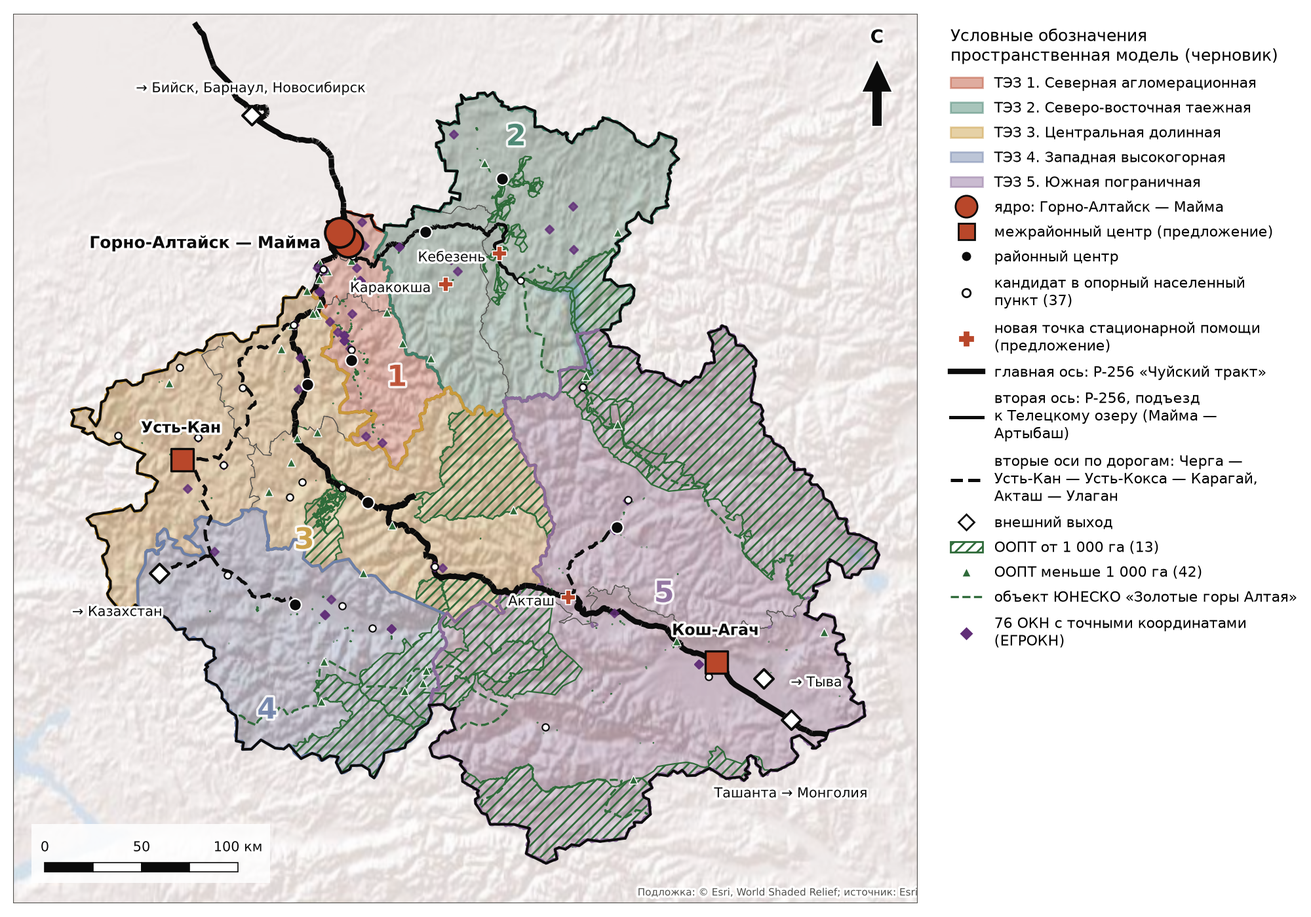
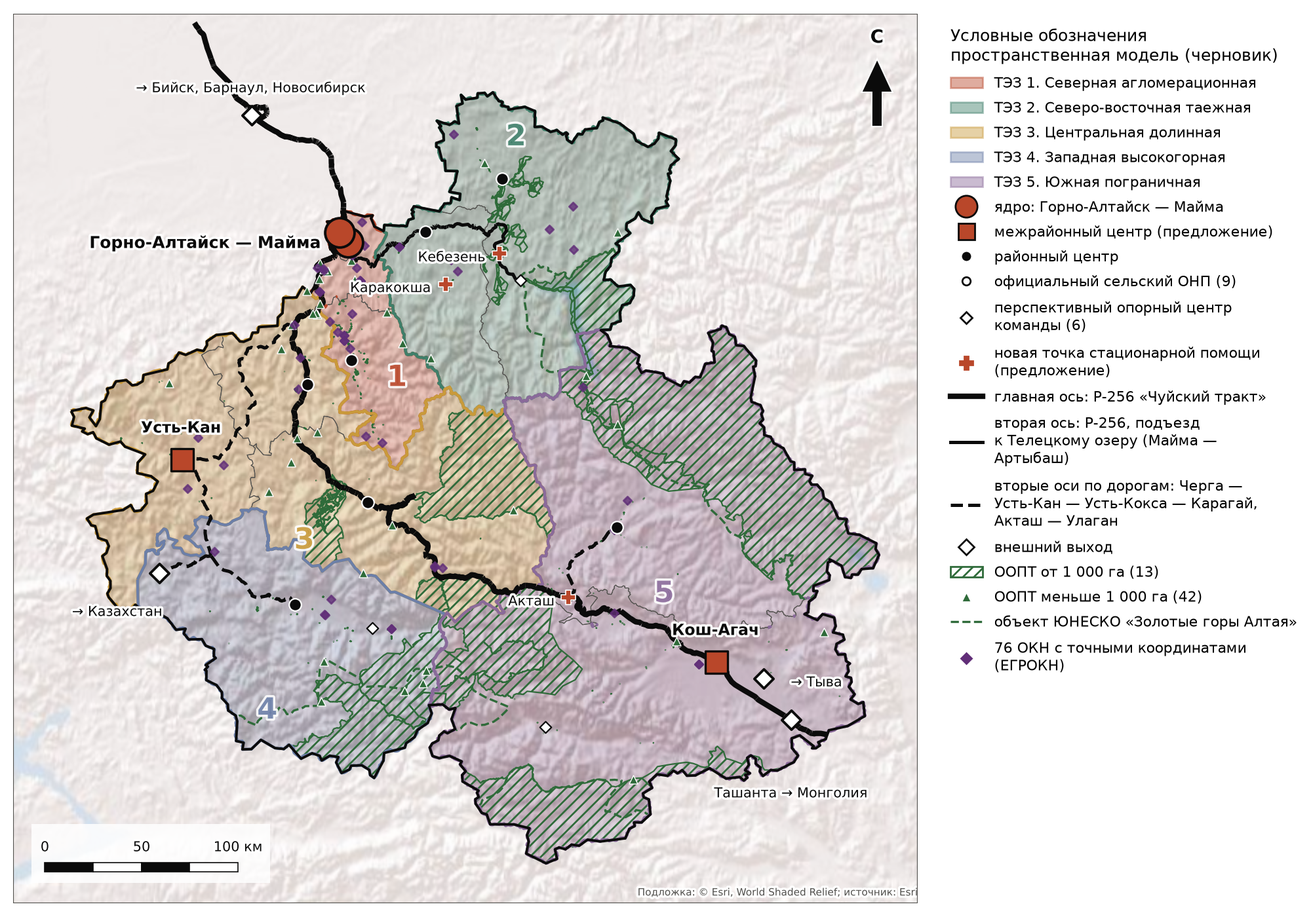
Обновить проектную сеть ОНП до 9 + 6 пунктов

Changed region(s): [[0.713, 0.3071, 0.992, 0.7371], [0.217, 0.5221, 0.248, 0.5529]]

diff --git a/scripts/slides/make_course_feedback_maps.py b/scripts/slides/make_course_feedback_maps.py
@@ -130,23 +130,22 @@ def main():
     assert (official._merge == 'both').all(), 'Не все ОНП сопоставлены по ОКТМО'
     official = gpd.GeoDataFrame(official, geometry='geometry', crs=CRS)
     additions = onp[~onp.oktmo.astype(str).isin(official.oktmo)]
-    capital = additions[additions.oktmo.eq(84701000001)]
-    rural = additions.drop(capital.index)
+    assert (len(official), len(additions)) == (9, 6)
     official.plot(ax=ax, color=ECONOMY, markersize=32, edgecolor='white', lw=.5, zorder=7)
-    onp_key = [symbol('o', ECONOMY, 'Сельский ОНП по постановлению № 222'),
-               symbol('o', FEDERAL, 'Дополнительный сельский пункт команды', 'white'),
-               symbol('s', REGIONAL, 'Горно-Алтайск, городское ядро')]
+    onp_key = [symbol('o', ECONOMY, 'Официальный сельский ОНП по постановлению № 222 (9)'),
+               symbol('o', FEDERAL, 'Перспективный опорный центр команды (6)', 'white')]
     export_comparison(official, onp, additions)
-    rural.plot(ax=ax, facecolor='none', edgecolor=FEDERAL, markersize=46, lw=1.1, zorder=6)
-    capital.plot(ax=ax, color=REGIONAL, marker='s', markersize=32, edgecolor='white', lw=.6, zorder=8)
+    additions.plot(ax=ax, facecolor='none', edgecolor=FEDERAL, markersize=46, lw=1.1, zorder=6)
     for name, offset in {
-        'Горно-Алтайск': (8, -7), 'Майма': (-6, 8), 'Манжерок': (-6, -3),
-        'Элекмонар': (5, 6), 'Беляши': (-6, 5), 'Балыкча': (5, 5),
+        'Акташ': (-10, 10), 'Кебезень': (18, 18), 'Каракокша': (18, -18),
+        'Иогач': (-18, -18), 'Беляши': (-10, 8), 'Катанда': (10, -10),
     }.items():
         p = onp.loc[onp['name'].str.endswith(name), 'geometry'].iloc[0]
         ax.annotate(name, (p.x, p.y), xytext=offset, textcoords='offset points',
                     fontsize=7.3, ha='right' if offset[0] < 0 else 'left',
-                    path_effects=HALO, zorder=10)
+                    path_effects=HALO, zorder=10,
+                    arrowprops={'arrowstyle': '-', 'color': FEDERAL, 'lw': .65,
+                                'shrinkA': 2, 'shrinkB': 3})
     save(fig, ax, interior, onp_key + [symbol('o', '#8e948f', 'Другие населенные пункты')]
          + road_keys, 'onp_course')
 
@@ -188,9 +187,7 @@ def export_comparison(official, onp, additions):
             status=both.map({True: 'оба перечня', False: 'только постановление № 222'})
         ),
         additions.rename(columns={'name': 'settlement'})[['oktmo', 'settlement', 'mo', 'основание']]
-        .assign(status=additions.oktmo.eq(84701000001).map(
-            {True: 'городское ядро команды', False: 'дополнительный сельский пункт команды'}
-        )),
+        .assign(status='перспективный опорный центр команды'),
     ], ignore_index=True)
     result['pdf_page'] = result.pdf_page.astype('Int64')
     result.to_csv(OUT / 'onp_comparison.csv', index=False)

diff --git a/scripts/model/make_model_map.py b/scripts/model/make_model_map.py
@@ -94,7 +94,11 @@ tel.plot(ax=ax, color=INK, lw=1.8, zorder=4)
 axes = gpd.read_file(ROOT / "data" / "model" / "layers" / "axes_secondary.geojson").to_crs(CRS)
 axes.plot(ax=ax, color=INK, lw=1.8, ls="--", zorder=4)
 # узлы
-ax.scatter(onp.geometry.x, onp.geometry.y, s=14, color=SURFACE, edgecolor=INK, lw=0.8, zorder=5)
+official = csv("data/slides/onp_decree_222.csv").oktmo.astype(str)
+is_official = onp.oktmo.astype(str).isin(official)
+assert (is_official.sum(), (~is_official).sum()) == (9, 6)
+ax.scatter(onp[is_official].geometry.x, onp[is_official].geometry.y, s=14, color=SURFACE, edgecolor=INK, lw=0.8, zorder=5)
+ax.scatter(onp[~is_official].geometry.x, onp[~is_official].geometry.y, s=20, marker="D", color=SURFACE, edgecolor=INK, lw=0.8, zorder=5)
 c = gpd.GeoSeries([pt(n) for n in centers if n not in INTER], crs=CRS)
 ax.scatter(c.x, c.y, s=45, color=INK, edgecolor=SURFACE, lw=0.8, zorder=6)
 for n in INTER:
@@ -132,7 +136,8 @@ finish(fig, ax, extent=(x0 - 30000, y0 - 20000, x1 + 20000, y1 + 40000), basemap
                [Line2D([], [], marker="o", ls="", ms=12, mfc="#b9472a", mec=INK, label="ядро: Горно-Алтайск — Майма"),
                 Line2D([], [], marker="s", ls="", ms=9, mfc="#b9472a", mec=INK, label="межрайонный центр (предложение)"),
                 Line2D([], [], marker="o", ls="", ms=6, mfc=INK, mec=SURFACE, label="районный центр"),
-                Line2D([], [], marker="o", ls="", ms=4.5, mfc=SURFACE, mec=INK, label="кандидат в опорный населённый пункт (37)"),
+                Line2D([], [], marker="o", ls="", ms=4.5, mfc=SURFACE, mec=INK, label="официальный сельский ОНП (9)"),
+                Line2D([], [], marker="D", ls="", ms=4.5, mfc=SURFACE, mec=INK, label="перспективный опорный центр команды (6)"),
                 Line2D([], [], marker="P", ls="", ms=7, color="#b9472a", label="новая точка стационарной помощи (предложение)"),
                 Line2D([], [], color=INK, lw=3.0, label="главная ось: Р-256 «Чуйский тракт»"),
                 Line2D([], [], color=INK, lw=1.8, label="вторая ось: Р-256, подъезд к Телецкому озеру (Майма — Артыбаш)"),

diff --git a/scripts/slides/make_completion_maps.py b/scripts/slides/make_completion_maps.py
@@ -56,12 +56,21 @@ def main():
         if lo == 0:
             label = 'меньше 500'
         handles.append(Line2D([], [], marker='o', ls='', ms=size**.5, color='#789b92', label=f'Жителей (перепись-2020): {label}'.replace(',', ' ')))
-    onp.plot(ax=ax, facecolor='none', edgecolor='#b9472a', markersize=85, linewidth=.9, zorder=6)
+    official = read_csv('data/slides/onp_decree_222.csv').oktmo.astype(str)
+    is_official = onp.oktmo.astype(str).isin(official)
+    assert (is_official.sum(), (~is_official).sum()) == (9, 6)
+    onp[is_official].plot(ax=ax, facecolor='none', edgecolor='#b9472a', markersize=85, linewidth=.9, zorder=6)
+    onp[~is_official].plot(ax=ax, facecolor='none', edgecolor='#33637d', marker='s', markersize=70, linewidth=.9, zorder=6)
     for name, dx, dy in [('Горно-Алтайск', -70000, 15000), ('Майма', 20000, 10000), ('Кош-Агач', 12000, -10000), ('Усть-Кан', -60000, 8000)]:
-        p = onp[onp['name'].str.endswith(name)].geometry.iloc[0]
+        source = st if name in {'Горно-Алтайск', 'Майма'} else onp
+        key = 'settlement' if source is st else 'name'
+        p = source[source[key].str.endswith(name)].geometry.iloc[0]
         ax.annotate(name, (p.x, p.y), (p.x+dx, p.y+dy), fontsize=8, path_effects=HALO,
                     arrowprops={'arrowstyle':'-', 'color':INK, 'lw':.5}, zorder=8)
-    handles.append(Line2D([], [], marker='o', ls='', ms=8, mfc='none', mec='#b9472a', label='37 опорных населенных пунктов (решение 03.11.2026)'))
+    handles += [
+        Line2D([], [], marker='o', ls='', ms=8, mfc='none', mec='#b9472a', label='Официальные сельские ОНП по постановлению № 222 (9)'),
+        Line2D([], [], marker='s', ls='', ms=8, mfc='none', mec='#33637d', label='Перспективные опорные центры команды (6)'),
+    ]
     finish(fig, ax, extent, handles, basemap_alpha=.5)
     save_map(fig, OUT / 'map_04_settlement.png')
 

diff --git a/scripts/access/build_services_inputs.py b/scripts/access/build_services_inputs.py
@@ -81,15 +81,14 @@ hosp = gpd.read_parquet(OUT / "hospitals_services.parquet").to_crs(4326)
 pmsp += [dict(osm_id=str(h.osm_id), name=h["name"], amenity="hospital", healthcare="hospital",
               kind="больница, поликлиника", geometry=h.geometry) for _, h in hosp.iterrows()]
 
-# участковые больницы и врачебные амбулатории по СТП (табл. III.7.5) — через кандидатов в ОНП, координаты — точка НП.
+# участковые больницы и врачебные амбулатории по СТП (табл. III.7.5), координаты — точка НП.
 # Балыктуюль, Кокоря, Барагаш есть и в перечне планируемых амбулаторий СТП (прил. 4) — существование не подтверждено,
 # поэтому в базовый расчёт не входят (kind с пометкой «план»)
 STP_PLANNED = {"село Балыктуюль", "село Кокоря", "село Барагаш"}
-onp = pd.read_csv(ROOT / "data" / "onp_candidates.csv", encoding="utf-8-sig")
-onp = onp[onp["основание"].str.contains("СТП")]
+stp = pd.read_csv(OUT / "stp_primary_care_settlements.csv", encoding="utf-8-sig")
 pmsp += [dict(osm_id=f"stp:{r.id}", name=f"участковая больница / врачебная амбулатория, {r['name']}", amenity="", healthcare="",
               kind="амбулатория по СТП (план)" if r["name"] in STP_PLANNED else "участковая больница / амбулатория (СТП)",
-              geometry=Point(r.longitude, r.latitude)) for _, r in onp.iterrows()]
+              geometry=Point(r.longitude, r.latitude)) for _, r in stp.iterrows()]
 
 s = gpd.GeoDataFrame(schools, crs=4326)
 p = gpd.GeoDataFrame(pmsp, crs=4326)

diff --git a/scripts/check_numbers.py b/scripts/check_numbers.py
@@ -62,8 +62,9 @@ ga2014 = fh[fh.astype(str).apply(lambda r: 'Горно-Алтайск' in ' '.jo
 
 # (задача, утверждение, пересчитанное значение, заявленное значение, допуск)
 CHECKS = [
-    ('01', 'кандидатов в ОНП', len(onp), 37, 0),
-    ('01', 'доля населения в ОНП, %', 100 * onp.pop_2025_est.sum() / pop.sum(), 75, 1),
+    ('01', 'пунктов в проектной сети ОНП', len(onp), 15, 0),
+    ('01', 'жителей в проектной сети ОНП', onp.pop_2025_est.sum(), 51517, 0),
+    ('01', 'доля населения в проектной сети ОНП, %', 100 * onp.pop_2025_est.sum() / pop.sum(), 24.5, 0.05),
     ('01', 'населённых пунктов в settlements.csv', len(csv('data/dataset_v3/settlements.csv')), 247, 0),
     ('02', 'доля Маймы и Чемала в размещённых, %', 100 * ksr[['Майминский район', 'Чемальский район']].sum() / ksr.sum(), 61, 0.5),
     ('02', 'размещено в КСР 2025, тыс.', ksr.sum() / 1000, 634, 0.5),
@@ -165,8 +166,8 @@ CHECKS = [
     ('06', 'ОКН уровня A (точка из ЕГРОКН)', okng['качество_гео'].str.startswith('A').sum(), 76, 0),
 ]
 
-if '--control' in sys.argv:          # контроль: заявляем 38 кандидатов вместо 37 — проверка обязана упасть
-    CHECKS[0] = CHECKS[0][:3] + (38, 0)
+if '--control' in sys.argv:          # контроль: заявляем 16 пунктов вместо 15 — проверка обязана упасть
+    CHECKS[0] = CHECKS[0][:3] + (16, 0)
 
 bad = 0
 for task, what, got, claimed, tol in CHECKS:

diff --git a/docs/course_feedback_2026-11-07.md b/docs/course_feedback_2026-11-07.md
@@ -4,19 +4,24 @@
 
 В приложении № 2 к [постановлению Правительства РА от 26.05.2026 № 222](https://publication.pravo.gov.ru/document/0400202605270001) утверждены **9 сельских ОНП**: Кош-Агач, Онгудай, Турочак, Улаган, Усть-Кан, Усть-Кокса, Чемал, Чоя и Шебалино. Проверены все страницы приложения (с. 11–23 PDF) и коды ОКТМО из графы ОНП.
 
-Все девять входят в сеть команды. За пределами сельского списка № 222 у команды **27 сельских пунктов и Горно-Алтайск**. Город выделен отдельно как ядро агломерации. Для 27 сельских пунктов предлагается усилить функции в проектной сети обслуживания; статусы по постановлению остаются самостоятельным слоем. Новый Бельтир, Каракол Онгудайского района и Акташ, например, числятся в приложении среди прилегающих НП.
+**Актуализировано 09.11.2026 по тексту Арины Комаровой.** Проектная сеть включает все 9 официальных ОНП и 6 дополнительных перспективных опорных центров: Акташ, Кебезень, Каракокшу, Иогач, Беляши и Катанду. Всего 15 пунктов с оценкой 51 517 жителей (24,5% населения на 2025 год). Горно-Алтайск и Майма не входят в этот перечень и остаются отдельным городским ядром модели.
 
-В сети команды 37 пунктов, 74,9% населения по оценке на 2025 год. Предложение — обеспечить сеть локальных услуг в пунктах, где уже есть административная или медицинская функция либо не менее 1 500 жителей. Примеры:
+Дополнительные пункты — предложение команды, а не официальный статус по постановлению № 222. При выборе учитывались транспортно-географическое положение, удаленность от существующих центров, социальная инфраструктура, окружающая система расселения и перспективные функции, а не только численность населения.
 
 | Дополнительный пункт сети команды | Основание и роль |
 |---|---|
-| Майма | Райцентр и часть столичного ядра. Узел ежедневных связей агломерации |
-| Алферово, Элекмонар | 1 738 и 1 953 жителя соответственно. Для Элекмонара наличие медточки требует отдельного подтверждения |
-| Беляши, Балыкча | Удаленные села с медицинской функцией по материалам СТП. Опора для обслуживания на периферии |
-| Новый Бельтир, Каракол Онгудайского района | Медицинская функция по СТП. В приложении № 2 они относятся к прилегающим НП |
-| Акташ | 2 185 жителей по оценке команды, развилка на Улаган. В приложении № 2 указан как прилегающий НП |
+| Акташ | Приоритетный кандидат: Чуйский тракт и ответвление дороги на Улаган; транспортный и сервисный узел восточной части республики |
+| Кебезень | Приоритетный кандидат: обслуживание группы небольших и удаленных от районного центра НП Турочакского района |
+| Каракокша | Приоритетный кандидат: дополнительный центр для периферийной части Чойского района |
+| Иогач | Вместе с Артыбашем — туристический и сервисный узел Телецкого озера |
+| Беляши (Джазатор) | Поддержка постоянного проживания и доступности услуг в удаленной части Кош-Агачского района |
+| Катанда | Локальный центр западной части Уймонской долины, включая территории туристических маршрутов к Белухе |
 
-Построчное сравнение с приложением № 2 и основания предложений — [CSV](../data/slides/onp_comparison.csv). Привязка по ОКТМО к переписному слою. Решение команды от 03.11.2026 и действующая диагностика сведены в [рабочих решениях](decisions_2026-11-03.md).
+Официальная сеть построена преимущественно вокруг районных административных центров, но их наличие само по себе не гарантирует доступность услуг для всего района. По расчету команды, 16 479 жителей находятся дальше 60 минут транспортной доступности от ближайшей больницы; наиболее выраженные проблемы — в Улаганском, Турочакском и Чойском районах.
+
+Размещение точек стационарной помощи в Акташе, Кебезене и Каракокше — отдельный модельный сценарий: доля жителей в пределах 60 минут от больницы потенциально увеличивается с 92,2 до 95,3%. Это не характеристика уже существующей сети.
+
+Построчное сравнение с приложением № 2 и основания предложений — [CSV](../data/slides/onp_comparison.csv). Привязка по ОКТМО к переписному слою. Прежнее решение от 03.11.2026 и актуализация сведены в [рабочих решениях](decisions_2026-11-03.md).
 
 ## Агломерация
 

diff --git a/docs/slides_content_04-14_draft.md b/docs/slides_content_04-14_draft.md
@@ -19,25 +19,29 @@
   (89–92 тыс.), официальный (122,6 тыс. по документам МО) — верхняя граница для резервов.
   Основание: Горно-Алтайск −0,86 %/год, агломерация −0,41 %/год (2023–2025).
   *`docs/decisions_2026-11-03.md`, реш. 2.*
-- Опорная сеть: **37 ОНП**, в них 74,9 % населения; критерии: центр МО, больница или
-  амбулатория, ≥1 500 жителей. Сверка с реестром Минздрава: у **36 из 37** есть
-  действующая точка медпомощи в своём НП (20 больница/центр, 15 амбулатория, 1 ФАП);
-  исключение — Элекмонар (кандидат по населению). *`data/onp_candidates.csv`,
-  `scripts/access/medical_registries.ipynb`, `docs/decisions_2026-11-03.md`, реш. 4.*
+- Опорная сеть: **15 пунктов — 9 официальных сельских ОНП и 6 перспективных опорных
+  центров команды**; в них 51 517 жителей (24,5 % населения). Официальные: Кош-Агач,
+  Онгудай, Турочак, Усть-Кан, Усть-Кокса, Шебалино, Чемал, Улаган, Чоя. Дополнительные:
+  Акташ, Кебезень, Каракокша, Иогач, Беляши, Катанда. Дополнительные пункты — предложение
+  команды, а не статус по постановлению № 222. *`data/onp_candidates.csv`,
+  `data/slides/onp_decree_222.csv`, актуализация Арины Комаровой от 09.11.2026.*
 - Образование: на портале Минобрнауки **179 организаций с сайтами** — 131 школа,
   32 сада, 16 ДОД; школы есть в каждом районе, сады сконцентрированы в агломерации
   (13 из 32 — Майминский + Горно-Алтайск). *`data/education/obr04_summary.csv`.*
 
-**Рисунок (построить):** карта расселения — НП по населению + 37 ОНП + ядра/межрайонные
-центры (слои `data/onp_candidates.csv`, `data/dataset_v3/geo/`).
+**Рисунок (построить):** карта расселения — НП по населению + 9 официальных ОНП и
+6 перспективных опорных центров + ядра/межрайонные центры (слои
+`data/onp_candidates.csv`, `data/dataset_v3/geo/`).
 
-**Подпись к рисунку:** Рис. 4. Расселение и опорная сеть (37 ОНП; межрайонные центры
-решением от 03.11.2026 — Кош-Агач и Усть-Кан). Источники: БД ПМО/перепись-2020
-(`data/dataset_v3/`), реестр МО Минздрава РА (2026), решение команды от 03.11.2026.
+**Подпись к рисунку:** Рис. 4. Расселение и опорная сеть (9 официальных ОНП и
+6 перспективных центров; межрайонные центры — Кош-Агач и Усть-Кан). Источники:
+БД ПМО/перепись-2020 (`data/dataset_v3/`), постановление Правительства РА № 222,
+решения команды от 03.11.2026 и актуализация от 09.11.2026.
 
-**Тезис для доклада.** Сеть услуг уже точечная и агломерационная: концепция не «размазывает»
-рост, а закрепляет 37 опорных НП и два межрайонных центра — под трендовое население,
-с резервом под документный сценарий.
+**Тезис для доклада.** Концепция не ограничивается развитием административных центров:
+9 официальных ОНП дополняются шестью перспективными центрами там, где нужно улучшить
+обслуживание удалённых территорий. Два межрайонных центра и ядро агломерации остаются
+отдельными уровнями модели.
 
 **Оговорка:** реестр МО — не слой точек (без координат; «действует» по полю «исключено»);
 сады на портале — только имеющие сайты, полный счётчик садов не из этого источника.
@@ -126,7 +130,7 @@
 **Числа и тезисы:**
 - Узлы: ядро (Горно-Алтайск — Майма, 45,1 % населения) → межрайонные центры
   **Кош-Агач + Усть-Кан** (81,1 % в 120 мин; один Усть-Кан — 71,5 %, один Онгудай — 67,0 %) → 8 центров
-  округов → 37 ОНП (36 из 37 подтверждены реестром услуг).
+  округов → 15 пунктов опорной сети (9 официальных ОНП + 6 перспективных центров).
 - Каркасы: опорный (Р-256 + вторая ось Черга — Усть-Кан — Усть-Кокса — Карагай, 337 км),
   природный (55 ООПТ, 24,7 % без наложений), историко-культурный (288 ОКН, ядро 71 фед.
   на юге). *`data/model/`, `data/oopt/`, `data/okn/`.*

diff --git a/docs/numbers_check.md b/docs/numbers_check.md
@@ -2,7 +2,7 @@
 
 Каждое число из `.github/tasks/01–08.md`, из текстов слайдов (`docs/slides_01-03.md`) и черновика доктрины (`docs/doctrine_draft.md`) сверено с первоисточником. Как читать столбец «Как проверено»:
 
-- **скрипт** — пересчитано из файла репозитория программой `scripts/check_numbers.py`. 77 из 77 совпали. Если в тексте поставить неверное число, проверка падает: например, 38 кандидатов в опорные пункты вместо 37 (запуск с флагом `--control`).
+- **скрипт** — пересчитано из файла репозитория программой `scripts/check_numbers.py`. В исходной проверке 28.10.2026 совпали 77 из 77. Если в контрольное значение поставить неверное число, проверка падает: например, 16 пунктов проектной сети вместо 15 (запуск с флагом `--control`).
 - **текст СТП / мастер-плана** — найдено в чистом тексте документа (docx СТП или PDF мастер-плана), указаны таблица или страница.
 - **веб** — страница открыта и прочитана в этой сессии; дата и адрес указаны.
 - **не перепроверено** — источник был прочитан в прошлой сессии, а сейчас не открылся. Перед слайдом нужно сверить.
@@ -13,7 +13,7 @@
 
 | Задача | Число | Файл |
 |---|---|---|
-| 01 | 37 кандидатов в опорные пункты; 157 361 житель = 74,9 % от 210 095 | `data/onp_candidates.csv`, `data/dataset_v4/mo_summary.csv` |
+| 01 | Проектная сеть: 15 пунктов = 9 официальных сельских ОНП + 6 перспективных центров; 51 517 жителей = 24,5 % от 210 095 (актуализация 09.11.2026) | `data/onp_candidates.csv`, `data/slides/onp_decree_222.csv`, `data/dataset_v4/mo_summary.csv` |
 | 01 | 247 населённых пунктов | `data/dataset_v3/settlements.csv` |
 | 01 | Агломерация: 95 622 (2023) → 94 835 (2025) жителей, −0,41 % в год, продление тренда до 2035 г. ≈ 91 тыс.; Горно-Алтайск −0,86 % в год → ≈ 58,6 тыс. | `mo_summary.csv` (расчёт вручную, в скрипт не включён) |
 | 02 | Майма и Чемал — 60,6 % размещённых; всего 634 100 человек | `mo_summary.csv` |
@@ -114,7 +114,7 @@
 | 06 | Геокодирование (03.11.2026): координаты у **167 из 288** — 76 точных (уровень A) + 91 центр НП по адресу (уровень B); 121 без точки (федеральная археология без адреса, ликвидированные НП). Overpass из среды недоступен — OSM-сопоставление не выполнялось | `scripts/okn/geocode_okn.py` → `data/okn/egrokn_altai_geocoded.csv`, `egrokn_altai_points_all.geojson` |
 | 03 | Сверка с ФРМО: НП-ключи 2026 на 98,1 % совпадают с 2025 и на 97,4 % с 2027; 10 из 11 больниц OSM-слоя подтверждены (Усть-Коксинская РБ — в реестре адрес «п. Маргала», юридический; для расчётов берём OSM/СТП) | `scripts/access/verify_registry_points.py`, `docs/access_inputs.md` |
 | 03 | Реестр МО Минздрава РА, форма на 2026: **39 МО, 244 уникальных точки «МО+адрес», из них 225 действующих** (ФАП 140, больница/центр 53, амбулатория 20); серия 2019–2027 (~49 МО стабильно) | реестры ФРМО 2019–2027 → `data/access_inputs/medical_registry_*.csv`, разбор `scripts/access/medical_registries.ipynb`. Не готовый слой точек — см. `docs/access_inputs.md` |
-| 01 | ОНП × реестр: у **36 из 37** кандидатов есть действующая точка в своём НП (20 больница/центр, 15 амбулатория, 1 ФАП); исключение — Элекмонар (кандидат по населению) | `scripts/access/medical_registries.ipynb`, фиксация в `docs/decisions_2026-11-03.md` |
+| 01 | Историческая сверка прежнего списка ОНП × реестр: у **36 из 37** кандидатов есть действующая точка в своём НП (20 больница/центр, 15 амбулатория, 1 ФАП); исключение — Элекмонар. Для актуальной сети 09.11.2026 не пересчитано | `scripts/access/medical_registries.ipynb`, фиксация в `docs/decisions_2026-11-03.md` |
 | 01 | Организации образования на портале obr04.ru: **179** (131 школа, 32 сада, 16 ДОД); район определён у 150 | портал Минобрнауки РА, обход 03.11.2026 → `data/education/`, разбор `scripts/dataset/education_portal.ipynb`. Портал = организации с сайтами, не полный реестр |
 
 ## Не перепроверено

diff --git a/docs/doctrine_draft.md b/docs/doctrine_draft.md
@@ -1,9 +1,10 @@
 # Доктрина и пространственная модель — черновик к командной сессии (задача 08)
 
-Миссия, прогноз агломерации, два межрайонных центра, 37 ОНП и флагманы приняты
-03.11.2026 (`docs/decisions_2026-11-03.md`). Целевые ориентиры команды остаются
-предложениями, если прямо не указан официальный документ. У каждого числа есть источник;
-контрольные значения проверяет `scripts/check_numbers.py`.
+Миссия, прогноз агломерации, два межрайонных центра и флагманы приняты
+03.11.2026 (`docs/decisions_2026-11-03.md`). Сеть ОНП актуализирована 09.11.2026:
+9 официальных сельских ОНП и 6 перспективных опорных центров команды. Целевые ориентиры
+команды остаются предложениями, если прямо не указан официальный документ. У каждого
+числа есть источник; контрольные значения проверяет `scripts/check_numbers.py`.
 
 **На что опирается.**
 - SWOT — `docs/altai_context.md`, разд. 5; утверждён командой 28.10.2026.
@@ -39,7 +40,7 @@
 | **Ц1. Доступность услуг в каждом округе** | Жители в 60 мин от больницы с койками | 92,2 % | ≥ 95 % (три новые точки дают 95,3 %) | `access_by_mo.csv`, `scenario_new_points_60min.csv` |
 | | Жители в 120 мин от многопрофильной помощи | 56,8 % | ≥ 80 % (центры в Кош-Агаче и Усть-Кане — 81,1 %) | `scenario_interdistrict_center.csv` |
 | **Ц2. Полицентричное расселение** | Население 9 районов вне агломерации | 115,3 тыс. (2025) | не ниже 115 тыс. (против риска 94,9 тыс. по СТП) | `mo_summary.csv`; СТП, разд. 6 |
-| | Доля жителей в кандидатах в ОНП | 75 % (157 тыс.) | сохранить; сеть ОНП — опора округов | `onp_candidates.csv` |
+| | Доля жителей в проектной сети ОНП | 24,5 % (51 517) | сохранить; сеть из 9 официальных ОНП и 6 перспективных центров — опора округов | `onp_candidates.csv` |
 | **Ц3. Туризм в пределах ёмкости и по всей республике** | Доля Маймы и Чемала в размещённых | 60,6 % | ≤ 50 % | `mo_summary.csv` |
 | | Размещено в КСР за год | 634,1 тыс. (2025) | 972 тыс. (ориентир Стратегии СЭР) | `mo_summary.csv`; Стратегия, по СТП |
 | **Ц4. Сокращение разрыва доходов и инфраструктурного долга** | Разрыв доходов на жителя, Майма / Усть-Кан | 4,2 раза | ≤ 3 раз | `ndfl_mo_summary.csv` |
@@ -74,7 +75,7 @@
 | Ядро | Горно-Алтайск — Майма | Столичные функции, визит-центр Горного Алтая, курорты, вуз, Республиканская больница | 45,1 % населения; иерархия центров по СТП |
 | Межрайонные центры (предложение) | Кош-Агач, Усть-Кан | Многопрофильная медицина, образование, сервис для юга и запада | Сценарий: +51 тыс. жителей в 120 мин от многопрофильной помощи. Кош-Агач — 3-й центр республики по СТП |
 | Районные центры | Турочак, Чоя, Чемал, Шебалино, Онгудай, Улаган, Усть-Кокса | Центры муниципальных округов | Законы о реформе |
-| Опорные населённые пункты | 37 кандидатов | Базовые услуги для окрестных сёл | `onp_candidates.csv`: центр МО, больница или амбулатория, от 1 500 жителей |
+| Опорная сеть | 9 официальных ОНП + 6 перспективных центров: Акташ, Кебезень, Каракокша, Иогач, Беляши, Катанда | Базовые услуги для окрестных сёл | `onp_candidates.csv`; постановление № 222 и предложение команды от 09.11.2026; дополнительные пункты не имеют официального статуса |
 
 Отдельно на карте — **три новые точки стационарной помощи**: Акташ, Кебезень, Каракокша. Вместе они сокращают число жителей дальше 60 мин от больницы с 16 479 до 9 849.
 

diff --git a/docs/project_status_2026-11-04.md b/docs/project_status_2026-11-04.md
@@ -1,5 +1,9 @@
 # Статус проекта и условия закрытия Issues — 04.11.2026
 
+> **Актуализация 09.11.2026:** вместо прежних 37 кандидатов действует проектная сеть
+> из 15 пунктов — 9 официальных сельских ОНП и 6 перспективных опорных центров команды.
+> Ниже сохранён исходный статус приемки на 04.11.2026; это изменение не закрывает Issue #1.
+
 ## Проверенный исходный статус
 
 После `git fetch origin` локальный `main` и `origin/main` совпадали:
@@ -39,7 +43,7 @@ Issues не закрываются только ради нулевого сче
 
 | Issue | Подтверждено | Что еще нужно для полного закрытия |
 |---|---|---|
-| [#1 Расселение](https://github.com/mfthesun/altai-spatial-planning/issues/1) | Слайд 7; 37 ОНП приняты; прогноз принят; демография также на слайде 6 | Официальный реестр зданий школ с филиалами; геокодирование ФРМО; сверка услуг по действующему порядку. Каталог сайтов не заменяет адресный реестр |
+| [#1 Расселение](https://github.com/mfthesun/altai-spatial-planning/issues/1) | Слайд 7; с 09.11.2026 сеть 9 официальных ОНП + 6 перспективных центров; прогноз принят; демография также на слайде 6 | Официальный реестр зданий школ с филиалами; геокодирование ФРМО; сверка услуг по действующему порядку. Каталог сайтов не заменяет адресный реестр |
 | [#2 Экономика](https://github.com/mfthesun/altai-spatial-planning/issues/2) | Слайд 8, картограмма доходов; специализация пяти ТЭЗ на 21; оговорка об учете налогового агента | Карта МСП/отраслей и структура экономики, запрошенные в Issue; подтверждение экономических ориентиров автором; пункты SWOT ниже — предложения к приемке |
 | [#3 Транспорт](https://github.com/mfthesun/altai-spatial-planning/issues/3) | Расчет и карты в репозитории; слайд 9; два сценария с правильными охватами | Отдельно показать ближайшую больницу и транспортные узлы в дополнении к карте Республиканской; адрес Усть-Коксинской РБ остается расхождением |
 | [#4 Экология](https://github.com/mfthesun/altai-spatial-planning/issues/4) | Слайд 10 и карта ограничений; расхождение контуров и перечня ООПТ раскрыто | Количественная емкость Катунской долины не рассчитана; нет геометрии лавин/сейсмики. Нельзя заявлять доказанный лимит застройки или турпотока |

diff --git a/README.md b/README.md
@@ -31,10 +31,10 @@
 | `data/protected_areas/`, `docs/ooppt_2026.md` | ООПТ республиканского и местного значения на 01.01.2026: 54 объекта, 1 236 тыс. га; сверка с СТП (58 = 54 + 4 местных) |
 | `data/okn/`, `scripts/okn/` | ОКН из ЕГРОКН (03.11.2026): 288 объектов по РА (117 фед. + 170 рег. + 1 мест.), 76 точек с координатами, сводка по районам; сверка с СТП |
 | `data/education/`, `scripts/dataset/education_portal.ipynb` | Каталог портала obr04.ru: 179 организаций (131 школа, 32 сада, 16 ДОД) с районами и сайтами |
-| `docs/decisions_2026-11-03.md` | Зафиксированные решения: миссия, прогноз агломерации, межрайонные центры (Кош-Агач + Усть-Кан), состав ОНП (37), флагманы («Чуйский путь» + «Доступный юг») |
+| `docs/decisions_2026-11-03.md` | Зафиксированные решения: миссия, прогноз агломерации, межрайонные центры (Кош-Агач + Усть-Кан), сеть ОНП (актуализирована 09.11.2026), флагманы («Чуйский путь» + «Доступный юг») |
 | `docs/field_notes_2026-10-30.md` | Наблюдения команды (промышленность, туризм, Чуйский тракт) и черновой банк идей для доктрины/мероприятий |
 | `docs/found_facts_2026-11-02.md` | Сводный отчёт проверяемых фактов и источников (9 блоков: ТКО, «Сила Сибири», бюджет туризма, реформа МСУ, энергетика, ж/д, Р-256 и Ташанта, туризм, ООПТ) с ссылками; числа для слайдов — `docs/numbers_check.md` |
-| `data/onp_candidates.csv`, `docs/closed_tasks_2026-10-28.md` | Кандидаты в опорные населённые пункты; закрытые задачи: базовая характеристика, Стратегия 2035, энергобаланс, дороги, турпоток |
+| `data/onp_candidates.csv`, `docs/closed_tasks_2026-10-28.md` | Проектная сеть: 9 официальных сельских ОНП и 6 перспективных опорных центров; закрытые задачи: базовая характеристика, Стратегия 2035, энергобаланс, дороги, турпоток |
 | `data/raw/README.md` | Какие сырые архивы нужны и откуда их взять. Сами архивы в репозиторий не входят |
 
 ## Быстрый старт

diff --git a/docs/access_inputs.md b/docs/access_inputs.md
@@ -13,6 +13,7 @@
 | `settlements_demand.geojson` / `.parquet` | 247 НП: `id, name, mo, oktmo, pop_2020, pop_2025_est, demand, demand_beds` | 03 обеспеченность: здания/спрос |
 | `hospitals_services.geojson` / `.parquet` | 11 больниц: `id, name, level, beds, capacity, visits_shift, address, osm_id, shift_m` | 03, сценарий А |
 | `hospitals_services_republican.geojson` | Только Республиканская больница, `capacity` = всё население | 03, сценарий Б |
+| `stp_primary_care_settlements.csv` | 23 НП с участковой больницей или амбулаторией по СТП, включая 3 планируемые; не зависит от состава сети ОНП | первичная медпомощь |
 | `preview_inputs.png` | Контрольная карта | — |
 
 ## Как посчитаны поля
@@ -86,8 +87,10 @@
   «п. Маргала» (юридический адрес), тогда как СТП и OSM ставят больницу в с. Усть-Кокса
   (ул. Советская, 153). Для расчётов доступности берём OSM-слой; фактическое расположение
   проверить по фото/выписке перед слайдом 06.
-- **ОНП:** 36 из 37 кандидатов подтверждены на правильных 2026-данных
-  (20 больница/центр, 15 амбулатория, 1 ФАП; исключение — Элекмонар, кандидат по населению).
+- **Прежний список ОНП (историческая сверка 03.11.2026):** 36 из 37 кандидатов
+  подтверждены на правильных 2026-данных (20 больница/центр, 15 амбулатория, 1 ФАП;
+  исключение — Элекмонар). С 09.11.2026 проектная сеть сокращена до 15 пунктов;
+  эта статистика относится к прежнему списку и не пересчитывалась для нового.
 
 Замена OSM-координат больниц на реестр — только после геокодирования адресов и
 разрешения расхождения по Усть-Коксинской РБ.
